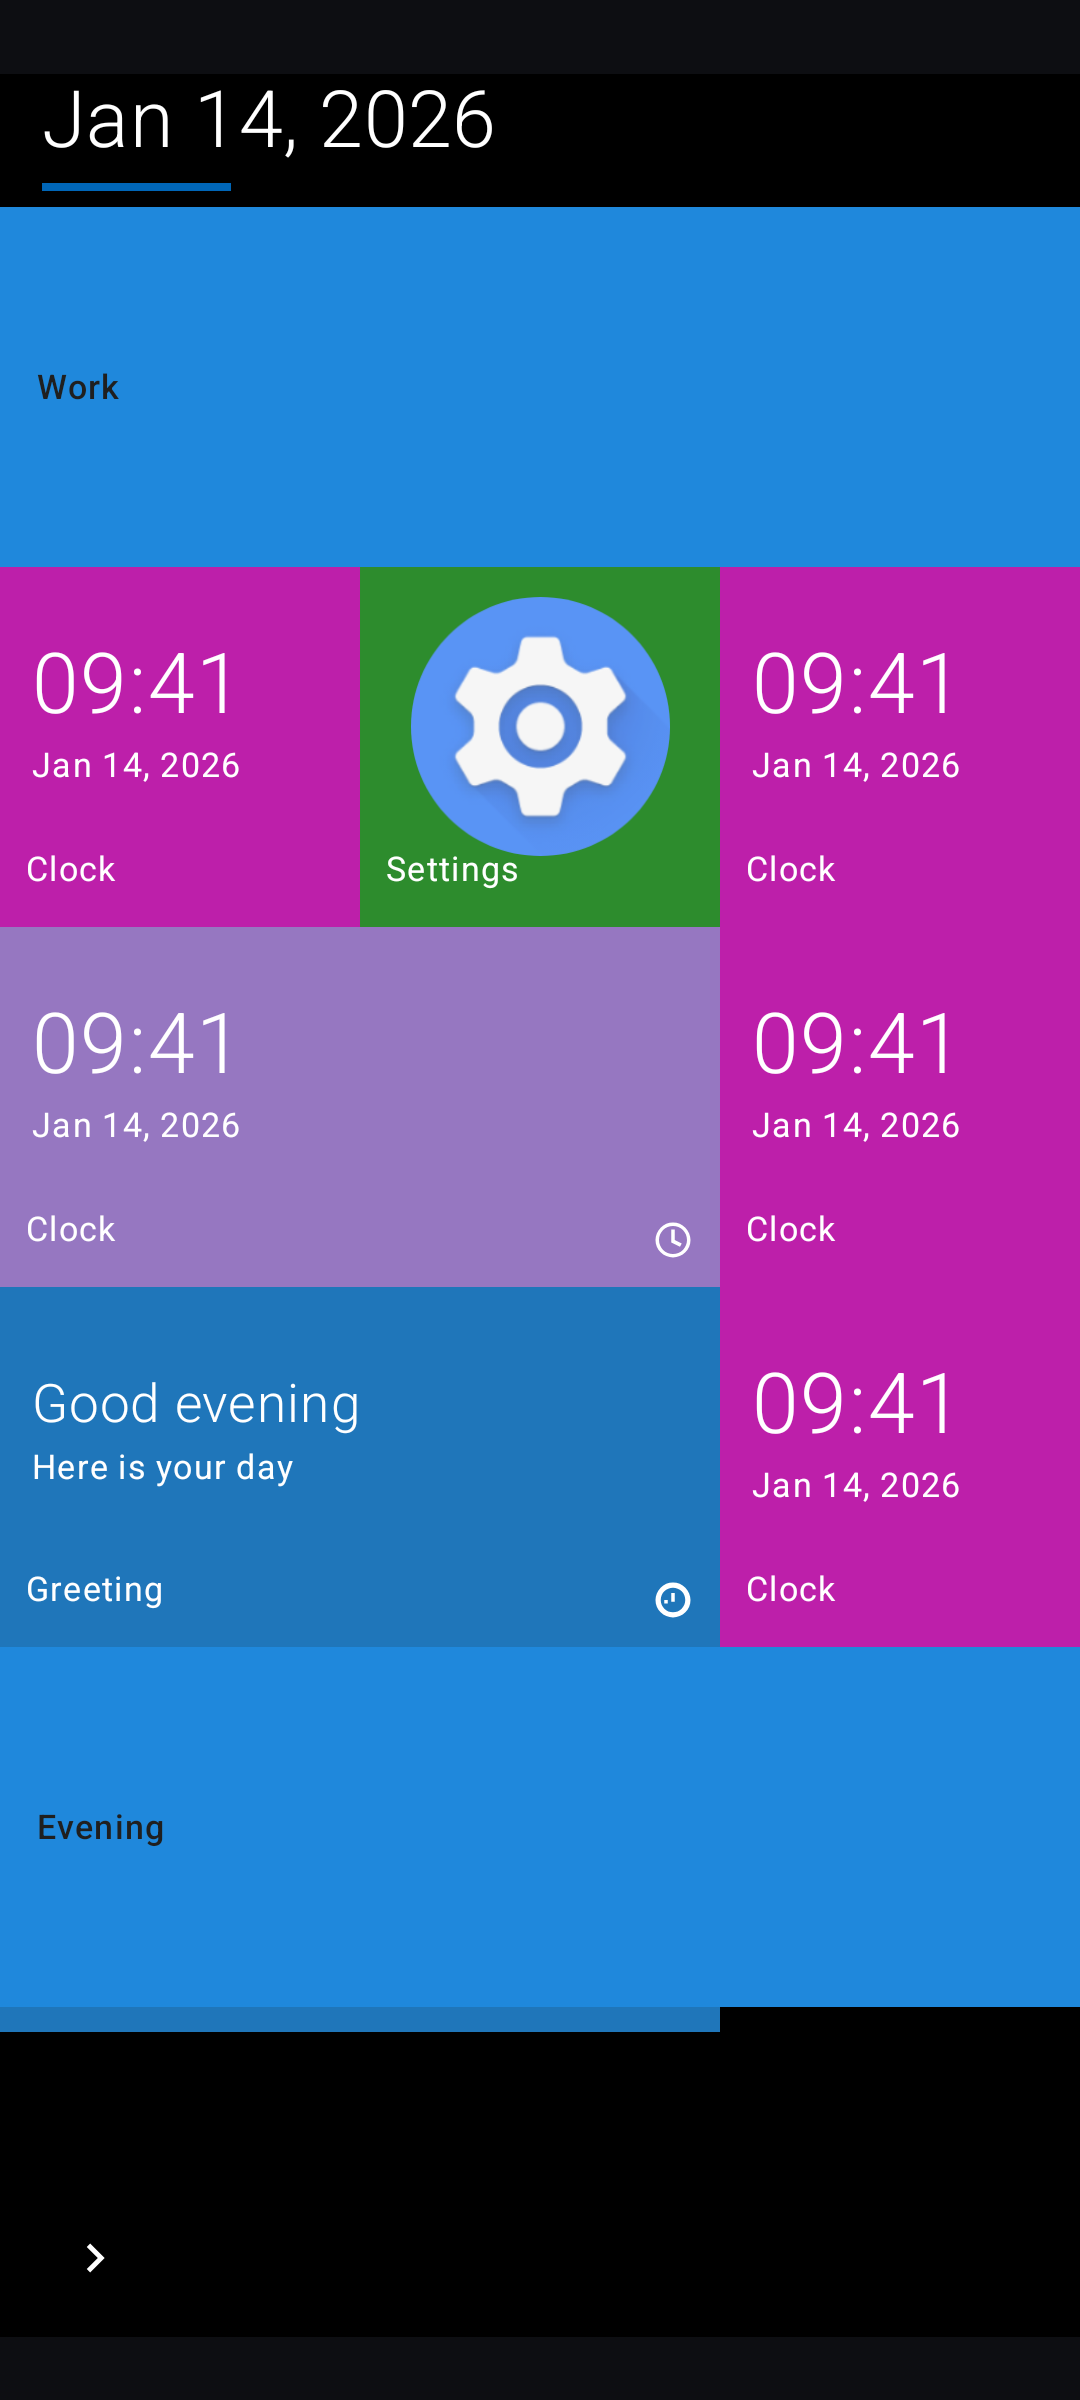
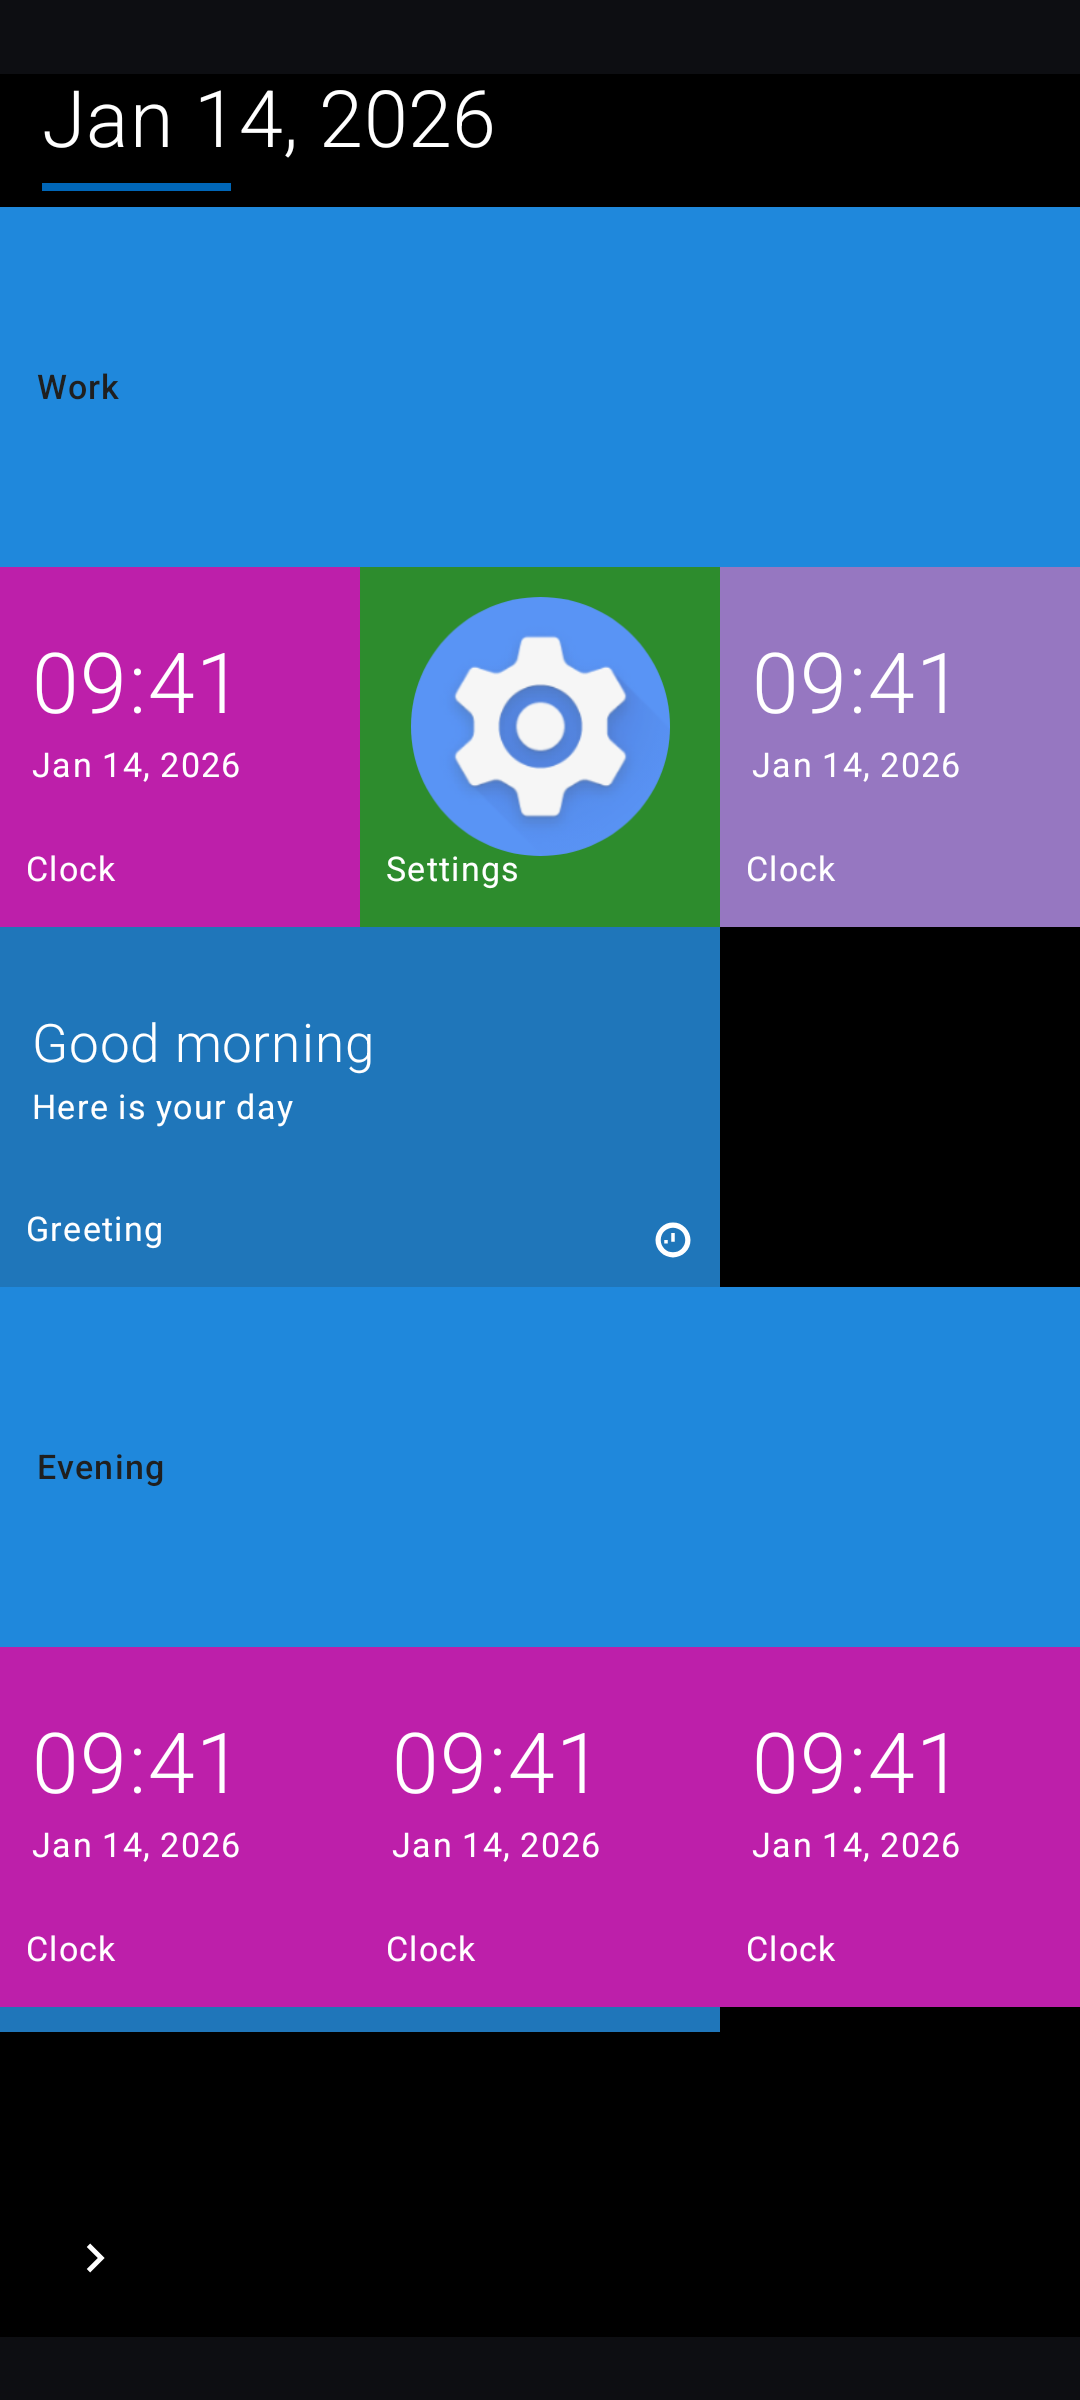
Fix two things the CI screenshot run caught that my machine could not
The first CI run failed with a twenty-per-cent diff on every scene, which is the harness
working: two of its inputs were not actually fixed.

The greeting tile read Calendar.getInstance() rather than Clock, so it said 'Good evening'
on a CI runner at 23:40 UTC and 'Good afternoon' on mine at 17:00. Every baseline would have
expired once a day, which is the exact failure this harness exists to prevent.

The screenshot grid asked for a two-wide tile at x=2 in three columns. GridPlacement clamps
that, but only along the path that re-flows the grid, and the renderer handled the leftover
overflow differently here and there - hence two legitimate pictures of one scene. The grid is
now valid, and the clamp is asserted as a unit test: a tile hanging off the edge is not
drawn the same way twice.

diff --git a/app/src/test/java/tgo1014/gridlauncher/domain/GridPlacementTest.kt b/app/src/test/java/tgo1014/gridlauncher/domain/GridPlacementTest.kt
@@ -36,6 +36,20 @@ class GridPlacementTest {
         assertValid(after)
         assertEquals(after, GridPlacement.update(after, pinned.copy(x = 0)))
     }
+    @Test fun aTileWiderThanTheSpaceLeftIsBroughtBackInside() {
+        // A stored grid can ask for a two-wide tile at x=2 in a three-column grid - a hand-edited
+        // backup, a grid written before the column count changed. Placement has to clamp it, because a
+        // tile hanging off the edge is not drawn the same way twice: on one machine the renderer
+        // dropped the overflow, on another it drew a phantom column, and the two screenshots of one
+        // scene then disagreed by twenty per cent of the image.
+        val overflowing = GridItem(4, App("Clock", "grid://clock"), 2, x = 2, y = 1)
+        val placed = GridPlacement.place(overflowing, emptyList(), columns = 3)
+        assertTrue(placed.x + placed.width <= 3)
+        assertTrue(placed.width in 1..3)
+        // And clamping is a pure function of what it was given, which is what makes a grid reproducible.
+        assertEquals(placed, GridPlacement.place(overflowing, emptyList(), columns = 3))
+    }
+
     @Test(expected = IllegalArgumentException::class) fun narrowingCannotSilentlyMovePinnedPosition() {
         GridPlacement.reflow(listOf(GridItem(1, App(), 1, x = 2, positionPinned = true)), 2)
     }

diff --git a/app/src/main/java/tgo1014/gridlauncher/live/BuiltInTiles.kt b/app/src/main/java/tgo1014/gridlauncher/live/BuiltInTiles.kt
@@ -141,7 +141,7 @@ object BuiltInTiles {
 
     /** A plain time-of-day greeting and whatever is next, the way Start greeted you before Cortana. */
     private fun greeting(context: Context): Pair<String, String> {
-        val hour = java.util.Calendar.getInstance().get(java.util.Calendar.HOUR_OF_DAY)
+        val hour = Clock.localTime().hour
         val hello = when (hour) { in 5..11 -> "Good morning"; in 12..17 -> "Good afternoon"; else -> "Good evening" }
         val next = agenda(context).second
         return hello to if (next.startsWith("No upcoming") || next.startsWith("Tap to")) "Here is your day" else next

diff --git a/app/src/androidTest/java/tgo1014/gridlauncher/screenshots/Screenshots.kt b/app/src/androidTest/java/tgo1014/gridlauncher/screenshots/Screenshots.kt
@@ -159,7 +159,7 @@ object Screenshots {
             GridItem(1, App("Work", BuiltInTiles.GROUP), 3, 1, groupLabel = "Work"),
             clock(2, 0, 1),
             GridItem(3, settings, 1, 1, x = 1, y = 1, tileColor = 0xFF107C10),
-            clock(4, 2, 1, 2).copy(tileColor = 0xFF8764B8),
+            clock(4, 2, 1, colour = 0xFF8764B8),
             GridItem(5, App("Greeting", BuiltInTiles.GREETING), 2, 1, x = 0, y = 2, tileColor = 0xFF0063B1),
             GridItem(6, App("Evening", BuiltInTiles.GROUP), 3, 1, y = 3, groupLabel = "Evening"),
             clock(7, 0, 4),
